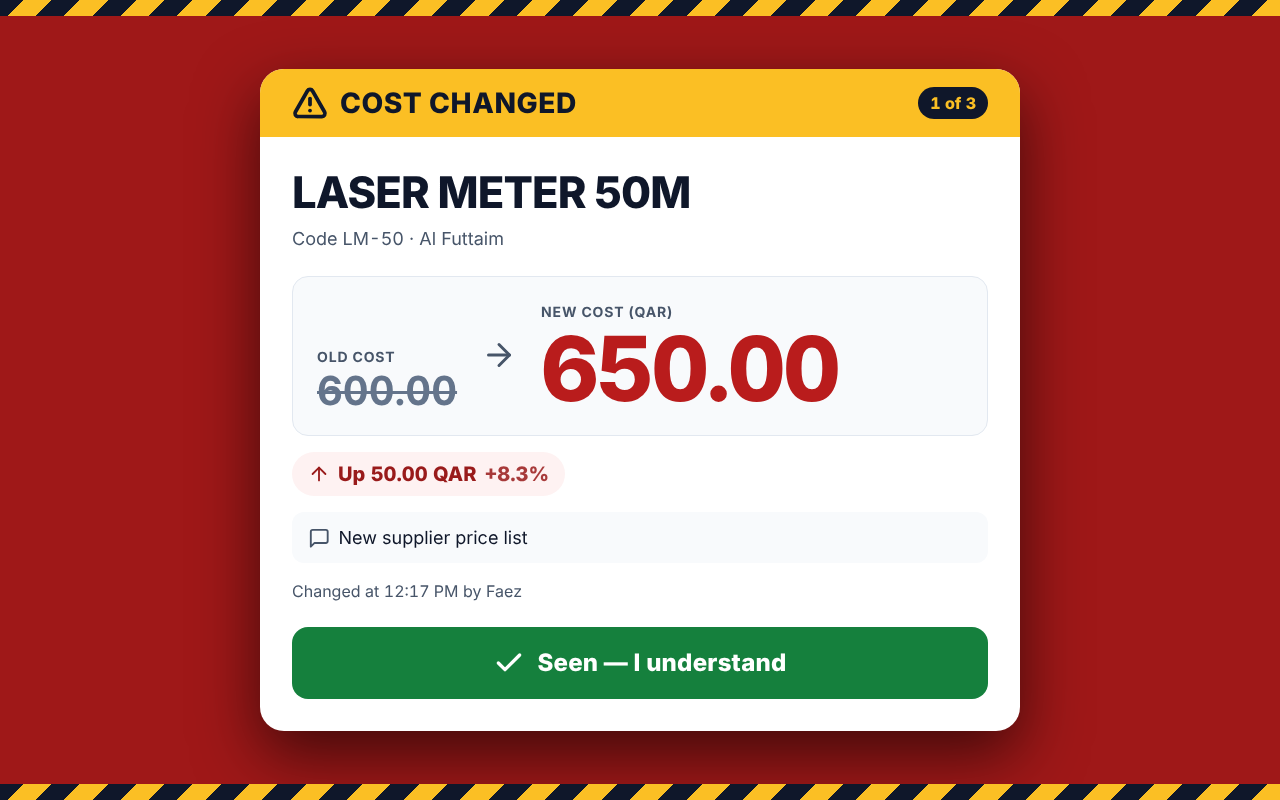
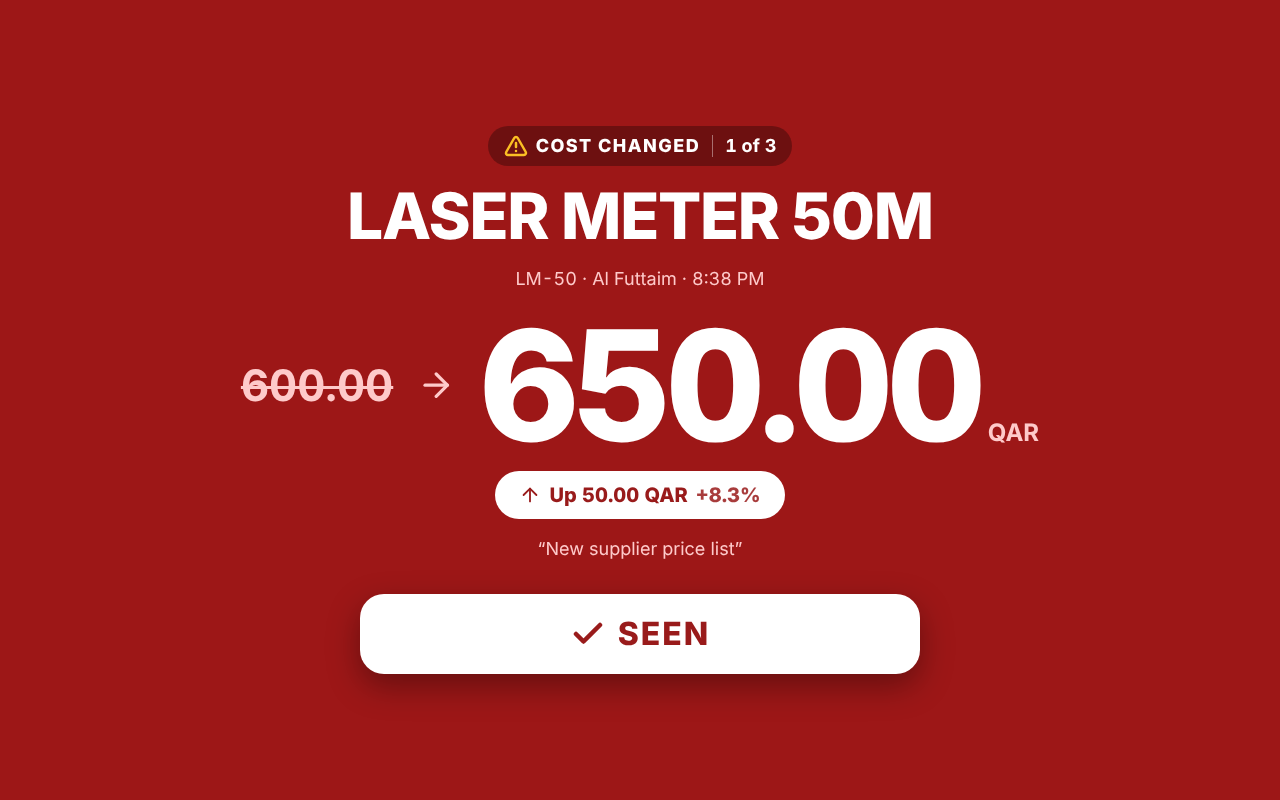
Release v1.5.0: sound on/off switch (auto back on after 30 min), simpler louder alert
Claude-Session: https://claude.ai/code/session_01Mx7C4sFz4aPG8uD74xn8Fn

diff --git a/index.html b/index.html
@@ -226,6 +226,13 @@ select.input{appearance:none;padding-right:44px;cursor:pointer;
 .tool.on{background:var(--down-tint);color:var(--ok);border-color:transparent}
 .tool.warn{background:var(--brand);color:var(--on-brand);border-color:transparent}
 .tool.off{background:var(--up-tint);color:var(--danger);border-color:transparent}
+/* on/off switch inside the sound button */
+.tool .sw{position:relative;flex:none;width:36px;height:20px;margin-left:var(--sp-1);border-radius:var(--r-full);background:var(--border-input);
+  transition:background-color var(--dur-fast)}
+.tool .sw::after{content:"";position:absolute;top:2px;left:2px;width:16px;height:16px;border-radius:50%;background:#fff;
+  transition:transform var(--dur-fast) var(--ease-out)}
+.tool[aria-checked="true"] .sw{background:var(--ok)}
+.tool[aria-checked="true"] .sw::after{transform:translateX(16px)}
 #notifHelp{margin-top:var(--sp-3)}
 .section-h{display:flex;align-items:center;gap:var(--sp-3);margin:var(--sp-6) 0 var(--sp-3);font-size:var(--fs-14);font-weight:700;
   letter-spacing:.08em;text-transform:uppercase;color:var(--text-muted)}
@@ -295,50 +302,42 @@ select.input{appearance:none;padding-right:44px;cursor:pointer;
 .start-tips li{display:flex;align-items:center;gap:var(--sp-2);justify-content:center}
 .start-tips .icon{color:var(--ok);width:18px;height:18px}
 
-/* ---------- ALERT (the one loud thing) ---------- */
-.alert{position:fixed;inset:0;z-index:var(--z-alert);display:none;padding:var(--sp-7) var(--gutter);overflow:auto;background:var(--a-scrim)}
+/* ---------- ALERT: one simple, loud screen — label, product, giant price, one button ---------- */
+.alert{--ring:#FFFFFF;--a-soft:#FECACA;position:fixed;inset:0;z-index:var(--z-alert);display:none;overflow:auto;
+  padding:var(--sp-6) var(--gutter);background:var(--a-scrim);color:#fff}
 .alert.open{display:flex}
-/* red pulse: 0.67 flashes per second, far below the WCAG 2.3.1 limit of 3 per second */
+/* red pulse: 0.67 cycles per second, far below the WCAG 2.3.1 limit of 3 flashes per second */
 .alert::before{content:"";position:fixed;inset:0;background:var(--a-pulse);opacity:.15;animation:alarm .75s ease-in-out infinite alternate;pointer-events:none}
 @keyframes alarm{to{opacity:.85}}
-.hazard{position:fixed;left:0;right:0;height:16px;z-index:2;
-  background:repeating-linear-gradient(-45deg,var(--brand) 0 20px,#0F172A 20px 40px)}
-.hazard.top{top:0} .hazard.bottom{bottom:0}
-/* scales up on big screens/TVs so it reads from across the shop */
-.alert-card{--ring:#0F172A;position:relative;z-index:1;margin:auto;width:min(clamp(760px,54vw,1080px),100%);overflow:hidden;
-  background:var(--a-surface);color:var(--a-text);border-radius:var(--r-xl);box-shadow:var(--shadow-3);
-  animation:alert-in var(--dur-base) var(--ease-out)}
+.alert :focus-visible{outline-offset:4px}
+.alert-card{position:relative;z-index:1;margin:auto;width:min(1100px,100%);display:flex;flex-direction:column;align-items:center;
+  gap:var(--sp-4);text-align:center;animation:alert-in var(--dur-base) var(--ease-out)}
 @keyframes alert-in{from{opacity:0;transform:scale(.96)}to{opacity:1;transform:none}}
-.alert-head{display:flex;align-items:center;justify-content:space-between;gap:var(--sp-3);padding:var(--sp-4) var(--sp-6);background:var(--brand);color:var(--on-brand)}
-.alert-title{display:flex;align-items:center;gap:var(--sp-3);font-size:clamp(1.5rem,2.2vw,2.5rem);font-weight:800;letter-spacing:.02em;text-transform:uppercase;line-height:1.1}
-.alert-title .icon{width:36px;height:36px;stroke-width:2.5}
-.alert-count{padding:var(--sp-1) var(--sp-3);border-radius:var(--r-full);background:var(--on-brand);color:var(--brand);font-size:var(--fs-16);font-weight:800;white-space:nowrap}
-.alert-body{padding:var(--sp-6)}
-.a-name{font-size:clamp(2rem,3.4vw,3.75rem);font-weight:800;line-height:1.1;letter-spacing:-.02em;overflow-wrap:anywhere}
-.a-meta{margin-top:var(--sp-2);font-size:var(--fs-18);color:var(--a-muted)}
-.a-prices{display:grid;grid-template-columns:auto auto 1fr;align-items:end;gap:var(--sp-5);margin:var(--sp-5) 0 var(--sp-4);
-  padding:var(--sp-5);background:var(--a-panel);border:1px solid var(--a-line);border-radius:var(--r-lg)}
-.a-label{margin-bottom:var(--sp-1);font-size:var(--fs-14);font-weight:700;letter-spacing:.06em;text-transform:uppercase;color:var(--a-muted)}
-.a-old{font-size:clamp(1.75rem,3.6vw,2.5rem);font-weight:700;line-height:1;color:var(--a-old);text-decoration:line-through;text-decoration-thickness:3px}
-.a-arrow{align-self:center;color:var(--a-muted)} .a-arrow .icon{width:36px;height:36px}
-.a-new{font-size:clamp(3.5rem,7vw,7.5rem);font-weight:800;line-height:.95;letter-spacing:-.03em;color:var(--a-text)}
-.a-new.t-up{color:var(--a-up)} .a-new.t-down{color:var(--a-down)}
-.alert .delta{min-height:44px;padding:0 var(--sp-4);font-size:var(--fs-20);font-weight:800}
+.alert-tag{display:inline-flex;align-items:center;gap:var(--sp-2);padding:var(--sp-2) var(--sp-4);border-radius:var(--r-full);
+  background:rgba(0,0,0,.3);font-size:var(--fs-18);font-weight:800;letter-spacing:.08em;text-transform:uppercase;line-height:1.2}
+.alert-tag .icon{width:24px;height:24px;stroke-width:2.5;color:var(--brand)}
+.alert-count{margin-left:var(--sp-1);padding-left:var(--sp-3);border-left:1px solid rgba(255,255,255,.4);font-weight:700;letter-spacing:0;text-transform:none}
+.a-name{font-size:clamp(2rem,5vw,4.5rem);font-weight:800;line-height:1.05;letter-spacing:-.02em;overflow-wrap:anywhere}
+.a-meta{font-size:var(--fs-18);color:var(--a-soft)}
+.a-price{display:flex;flex-wrap:wrap;align-items:center;justify-content:center;gap:var(--sp-2) var(--sp-5);margin-top:var(--sp-2)}
+.a-old{font-size:clamp(1.5rem,3.4vw,3rem);font-weight:700;color:var(--a-soft);text-decoration:line-through;text-decoration-thickness:3px}
+.a-arrow{display:inline-flex;color:var(--a-soft)} .a-arrow .icon{width:clamp(28px,3vw,48px);height:clamp(28px,3vw,48px)}
+.a-new{font-size:clamp(4rem,12vw,10rem);font-weight:800;line-height:.9;letter-spacing:-.04em}
+.a-cur{margin-left:var(--sp-2);font-size:clamp(1rem,2vw,1.5rem);font-weight:700;letter-spacing:0;color:var(--a-soft)}
+.alert .delta{min-height:48px;padding:0 var(--sp-5);font-size:var(--fs-20);font-weight:800;background:#fff}
 .alert .delta .icon{width:22px;height:22px}
-.alert .delta.d-up{background:var(--a-up-tint);color:var(--a-up-ink)}
-.alert .delta.d-down{background:var(--a-down-tint);color:var(--a-down-ink)}
-.alert .delta.d-flat{background:var(--a-panel);color:var(--a-muted)}
-.a-note{display:flex;gap:var(--sp-2);align-items:flex-start;margin-top:var(--sp-4);padding:var(--sp-3) var(--sp-4);border-radius:var(--r-md);
-  background:var(--a-panel);font-size:var(--fs-18);color:var(--a-text)}
-.a-note .icon{margin-top:3px;color:var(--a-muted)}
-.a-foot{margin-top:var(--sp-4);font-size:var(--fs-16);color:var(--a-muted)}
-.seen-btn{display:flex;align-items:center;justify-content:center;gap:var(--sp-3);width:100%;min-height:var(--target-xl);margin-top:var(--sp-5);
-  border:0;border-radius:var(--r-lg);background:var(--a-confirm);color:#fff;font-size:var(--fs-24);font-weight:800;letter-spacing:.01em;
-  transition:background-color var(--dur-fast),transform var(--dur-fast)}
-.seen-btn:hover:not(:disabled){background:var(--a-confirm-hover)}
-.seen-btn:active:not(:disabled){transform:scale(.99)}
-.seen-btn:disabled{opacity:.6;cursor:progress}
-.seen-btn .icon{width:32px;height:32px;stroke-width:2.5}
+.alert .delta.d-up{color:var(--a-up-ink)} .alert .delta.d-down{color:var(--a-down-ink)} .alert .delta.d-flat{color:var(--a-text)}
+.a-note{max-width:60ch;font-size:var(--fs-18);color:var(--a-soft)}
+.a-muted{display:inline-flex;align-items:center;gap:var(--sp-2);padding:var(--sp-2) var(--sp-4);border-radius:var(--r-full);
+  background:rgba(0,0,0,.3);font-size:var(--fs-16);font-weight:700}
+.a-muted .icon{color:var(--brand)}
+.seen-btn{display:flex;align-items:center;justify-content:center;gap:var(--sp-3);width:min(560px,100%);min-height:80px;margin-top:var(--sp-4);
+  border:0;border-radius:var(--r-xl);background:#fff;color:var(--a-up-ink);font-size:var(--fs-32);font-weight:800;letter-spacing:.06em;
+  text-transform:uppercase;box-shadow:0 12px 32px rgba(0,0,0,.35);transition:background-color var(--dur-fast),transform var(--dur-fast)}
+.seen-btn:hover:not(:disabled){background:#FEF2F2}
+.seen-btn:active:not(:disabled){transform:scale(.98)}
+.seen-btn:disabled{opacity:.7;cursor:progress}
+.seen-btn .icon{width:36px;height:36px;stroke-width:3}
 
 /* ---------- toast ---------- */
 .toast{position:fixed;left:50%;bottom:max(var(--sp-4),env(safe-area-inset-bottom));transform:translateX(-50%);z-index:var(--z-toast);
@@ -375,13 +374,11 @@ select.input{appearance:none;padding-right:44px;cursor:pointer;
   .table td[data-label]::before{content:attr(data-label);display:block;font-size:var(--fs-12);font-weight:700;letter-spacing:.06em;text-transform:uppercase;color:var(--text-muted)}
   .td-act{position:absolute;top:var(--sp-2);right:0;width:auto;padding:0!important}
   .user-form{grid-template-columns:1fr}
-  .alert{padding:var(--sp-6) var(--sp-3)}
-  .alert-head{padding:var(--sp-3) var(--sp-4)}
-  .alert-title{font-size:var(--fs-20);letter-spacing:0} .alert-title .icon{width:26px;height:26px}
-  .alert-body{padding:var(--sp-4)}
-  .a-prices{grid-template-columns:1fr;gap:var(--sp-3);padding:var(--sp-4)}
-  .a-arrow{display:none}
-  .seen-btn{font-size:var(--fs-20)}
+  .alert{padding:var(--sp-5) var(--sp-4)}
+  .alert-card{gap:var(--sp-3)}
+  .alert-tag{font-size:var(--fs-14)} .alert-tag .icon{width:20px;height:20px}
+  .a-meta,.a-note{font-size:var(--fs-16)}
+  .seen-btn{min-height:72px;font-size:var(--fs-24)}
   .start-title{font-size:var(--fs-32)}
 }
 @media (max-width:479px){
@@ -536,7 +533,7 @@ select.input{appearance:none;padding-right:44px;cursor:pointer;
       <div class="toolbar-right">
         <div class="stats" id="stats"></div>
         <div class="tools hidden" id="tools">
-          <button class="tool" id="soundBtn" type="button" title="Play a test alarm"></button>
+          <button class="tool" id="soundBtn" type="button" role="switch" aria-checked="false"></button>
           <button class="tool hidden" id="notifBtn" type="button"></button>
         </div>
       </div>
@@ -578,9 +575,7 @@ select.input{appearance:none;padding-right:44px;cursor:pointer;
 
 <!-- alert -->
 <div id="pop" class="alert" role="alertdialog" aria-modal="true" aria-labelledby="alertTitle" aria-describedby="alertDesc">
-  <div class="hazard top" aria-hidden="true"></div>
   <div class="alert-card" id="alertCard"></div>
-  <div class="hazard bottom" aria-hidden="true"></div>
 </div>
 
 <div id="upd" class="toast hidden" role="status">
@@ -590,11 +585,12 @@ select.input{appearance:none;padding-right:44px;cursor:pointer;
 
 <script>
 /* ===================== SETTINGS ===================== */
-const APP_VERSION = "1.4.0";               // bump this AND version.json on every release
+const APP_VERSION = "1.5.0";               // bump this AND version.json on every release
 const SUPABASE_URL = "https://gsjdwsbcinfuluoffcah.supabase.co";
 const SUPABASE_KEY = "sb_publishable_ggkvoNUwNfRT6ET5T5fOkw_zlarg8-p";   // publishable key (safe to publish)
 const SHOP = "Muhammed Bu Matar Trading";
 const REPEAT_BEEP_SECONDS = 10;            // sound the alarm again while a change is not confirmed
+const MUTE_MINUTES = 30;                   // a muted screen switches its alarm sound back on by itself after this
 /* ==================================================== */
 
 const $=id=>document.getElementById(id);
@@ -847,6 +843,7 @@ $("ulist").addEventListener("click",async e=>{
 /* ---------- board + alert ---------- */
 function beep(){
   // Loud siren: 3 x "wee-woo" sweeps (~1.8 s), two harsh detuned tones pushed through a compressor
+  if(isMuted()){lastBeep=Date.now();return;}   // staff switched the sound off (comes back on by itself)
   if(ctx){
     try{
       if(ctx.state==="suspended")ctx.resume();
@@ -941,30 +938,29 @@ function popup(){
   const r=unseen[0],k=dir(r);
   if(shown!==r.id){
     shown=r.id;
-    const meta=[r.code&&`Code <span class="num">${esc(r.code)}</span>`,r.supplier&&esc(r.supplier)].filter(Boolean).join(" · ");
+    const meta=[r.code&&`<span class="num">${esc(r.code)}</span>`,r.supplier&&esc(r.supplier),`<span class="num">${hm(r.changed_at)}</span>`].filter(Boolean).join(" · ");
     $("alertCard").innerHTML=`
-      <div class="alert-head"><h2 class="alert-title" id="alertTitle">${ic("alert")}Cost changed</h2><span class="alert-count num hidden" id="alertCount"></span></div>
-      <div class="alert-body">
-        <div id="alertDesc">
-          <p class="a-name">${esc(r.name)}</p>
-          ${meta?`<p class="a-meta">${meta}</p>`:""}
-          <div class="a-prices">
-            <div><div class="a-label">Old cost</div><div class="a-old num">${r.old_cost!=null?f2(r.old_cost):"—"}</div></div>
-            <div class="a-arrow" aria-hidden="true">${ic("arrow-right")}</div>
-            <div><div class="a-label">New cost (QAR)</div><div class="a-new num ${tcls(k)}">${f2(r.new_cost)}</div></div>
-          </div>
-          <div>${deltaChip(r)}</div>
-          ${r.note?`<p class="a-note">${ic("note")}<span>${esc(r.note)}</span></p>`:""}
-          <p class="a-foot">Changed at <span class="num">${hm(r.changed_at)}</span>${r.changed_by?` by ${esc(r.changed_by)}`:""}</p>
+      <h2 class="alert-tag" id="alertTitle">${ic("alert")}Cost changed<span class="alert-count num hidden" id="alertCount"></span></h2>
+      <div id="alertDesc" style="display:contents">
+        <p class="a-name">${esc(r.name)}</p>
+        <p class="a-meta">${meta}</p>
+        <div class="a-price">
+          ${r.old_cost!=null?`<span class="a-old num"><span class="sr-only">Was </span>${f2(r.old_cost)}</span><span class="a-arrow" aria-hidden="true">${ic("arrow-right")}</span>`:""}
+          <span class="a-new num"><span class="sr-only">Now </span>${f2(r.new_cost)}<span class="a-cur">QAR</span></span>
         </div>
-        <button class="seen-btn" id="seenBtn" type="button">${ic("check")}Seen — I understand</button>
-      </div>`;
+        ${deltaChip(r)}
+        ${r.note?`<p class="a-note">“${esc(r.note)}”</p>`:""}
+      </div>
+      <button class="seen-btn" id="seenBtn" type="button">${ic("check")}Seen</button>
+      <p class="a-muted hidden" id="alertMuted"></p>`;
     $("pop").classList.add("open");document.documentElement.classList.add("alert-open");
     $("board").inert=true;
     beep();
     setTimeout(()=>{const b=$("seenBtn");if(b)b.focus({preventScroll:true});},30);
   }
   const c=$("alertCount");c.textContent=`1 of ${unseen.length}`;c.classList.toggle("hidden",unseen.length<2);
+  const am=$("alertMuted");am.classList.toggle("hidden",!isMuted());
+  if(isMuted())am.innerHTML=`${ic("volume-x")}Alarm sound is off until <span class="num">${muteBackAt()}</span>`;
   if(Date.now()-lastBeep>REPEAT_BEEP_SECONDS*1000)beep();
 }
 $("pop").addEventListener("click",async e=>{
@@ -981,6 +977,7 @@ document.addEventListener("keydown",e=>{
   if(e.key==="Tab"&&$("pop").classList.contains("open")){e.preventDefault();const b=$("seenBtn");if(b)b.focus();}
 });
 async function poll(){
+  checkMute();
   try{
     const j=await rpc("ca_feed",{...T(),p_days:2});
     rows=j.rows;today=j.today;setNet(true);render();
@@ -1007,7 +1004,25 @@ function tryAutoStart(){
 }
 // any tap on the page switches sound back on if Chrome paused it
 document.addEventListener("pointerdown",()=>{if(started&&ctx&&ctx.state!=="running")ensureAudio();});
-$("soundBtn").onclick=()=>{ensureAudio();setTimeout(beep,60);};
+
+/* ---------- sound on/off switch (mute switches itself back on after MUTE_MINUTES) ---------- */
+let muteUntil=0;
+try{muteUntil=Number(localStorage.getItem("ca_mute_until"))||0;}catch(e){}
+const isMuted=()=>muteUntil>Date.now();
+const muteBackAt=()=>new Date(muteUntil).toLocaleTimeString("en-US",{hour:"numeric",minute:"2-digit"});
+function setMute(on){
+  muteUntil=on?Date.now()+MUTE_MINUTES*60000:0;
+  try{if(on)localStorage.setItem("ca_mute_until",String(muteUntil));else localStorage.removeItem("ca_mute_until");}catch(e){}
+  updateTools();
+  if(!$("pop").classList.contains("open"))return;
+  const am=$("alertMuted");if(am){am.classList.toggle("hidden",!on);if(on)am.innerHTML=`${ic("volume-x")}Alarm sound is off until <span class="num">${muteBackAt()}</span>`;}
+}
+function checkMute(){if(muteUntil&&!isMuted())setMute(false);}   // time is up: sound back on
+$("soundBtn").onclick=()=>{
+  const unlocked=!!ctx&&ctx.state==="running";
+  if(!unlocked||isMuted()){ensureAudio();setMute(false);setTimeout(beep,60);}   // ON: plays a short test alarm
+  else setMute(true);                                                           // OFF for MUTE_MINUTES
+};
 
 /* ---------- Windows / desktop notifications ---------- */
 const canNotify=()=>"Notification" in window&&"serviceWorker" in navigator&&location.protocol.startsWith("http");
@@ -1040,7 +1055,7 @@ function notifyChange(r){
   const extra=[r.code&&`Code ${r.code}`,r.supplier,r.note].filter(Boolean).join(" · ");
   if(extra)body+="\n"+extra;
   showNotif(`Cost changed: ${r.name}`,{
-    body,tag:"ca-"+r.id,renotify:true,requireInteraction:true,icon:ICON_ALERT,
+    body,tag:"ca-"+r.id,renotify:true,requireInteraction:true,icon:ICON_ALERT,silent:isMuted(),
     data:{id:r.id,token:S.token,api:SUPABASE_URL,key:SUPABASE_KEY,url:location.href.split("#")[0]},
     actions:[{action:"seen",title:"Seen"},{action:"open",title:"Open board"}]
   }).then(ok=>{if(!ok)notified.delete(r.id);});
@@ -1074,11 +1089,17 @@ function updateTools(){
   const staff=!!S&&S.role!=="admin";
   $("tools").classList.toggle("hidden",!staff);
   if(!staff)return;
-  const on=!!ctx&&ctx.state==="running";
+  const unlocked=!!ctx&&ctx.state==="running",muted=isMuted();
   const sb=$("soundBtn");
-  sb.className="tool "+(on?"on":"warn");
-  sb.innerHTML=on?`${ic("volume")}Sound on`:`${ic("volume-x")}Sound off — tap to turn on`;
-  sb.setAttribute("aria-label",on?"Sound is on. Play a test alarm":"Sound is off. Tap to turn sound on");
+  sb.className="tool "+(!unlocked?"warn":muted?"off":"on");
+  sb.setAttribute("aria-checked",String(unlocked&&!muted));
+  sb.innerHTML=!unlocked?`${ic("volume-x")}Sound off — tap to turn on`
+    :muted?`${ic("volume-x")}<span>Sound off · back on <span class="num">${muteBackAt()}</span></span><span class="sw" aria-hidden="true"></span>`
+    :`${ic("volume")}Sound on<span class="sw" aria-hidden="true"></span>`;
+  const lbl=!unlocked?"Alarm sound is off. Tap to turn it on"
+    :muted?`Alarm sound is off until ${muteBackAt()}. Tap to turn it back on`
+    :`Alarm sound is on. Tap to turn it off for ${MUTE_MINUTES} minutes`;
+  sb.setAttribute("aria-label",lbl);sb.title=lbl;
   const nb=$("notifBtn");
   if(!canNotify()){nb.classList.add("hidden");$("notifHelp").classList.add("hidden");return;}
   const p=Notification.permission;

diff --git a/DESIGN.md b/DESIGN.md
@@ -1,4 +1,4 @@
-# Cost Alert — Design System (v1.3.0)
+# Cost Alert — Design System (v1.5.0)
 
 A dark **signal board** for a hardware shop counter. The rule behind every decision:
 
@@ -13,12 +13,13 @@ A dark **signal board** for a hardware shop counter. The rule behind every decis
 |---|---|---|
 | Sound | 3 × siren sweep (800→1600 Hz), repeats every 10 s until **Seen** | Works when staff aren't looking at the screen |
 | Colour | Full-screen red scrim, slowly pulsing | Red = stop / warning in every culture |
-| Pattern | Yellow/black hazard stripes top and bottom | Hardware-shop "caution" sign, readable at a glance and not colour-only |
-| Contrast | White card on red (16:1) with 88–120 px new price | Read from across the counter |
+| Simplicity (v1.5) | Only four things on screen: what changed, the product, a giant new price (up to 160 px) with the up/down chip, and one **SEEN** button | One glance from across the counter is enough. Nothing competes with the price |
+| Contrast | White text straight on the red, at least 7.4:1 even at the brightest point of the pulse | Readable at any moment of the pulse |
 | Taskbar | Tab title flashes "⚠ COST CHANGED ⚠", favicon turns red | Visible even when the sales software is in front |
 | Windows notification (v1.4) | Pops over every app, even with Chrome minimised, and stays until answered. **Seen** button confirms and stops the siren. | Staff don't need to switch windows to see or confirm a change |
 | Focus | Keyboard focus lands on **Seen**, Enter confirms | Fast for a cashier with hands on the keyboard |
 | Queue | "1 of 3" counter | Staff know how many are left |
+| Sound switch (v1.5) | Staff can switch the siren off. It switches back on by itself after 30 min, and the alert says "Alarm sound is off until 9:07 PM" | Quiet when needed, but a forgotten mute can't hide a change |
 
 **Flash safety:** the pulse runs at 0.67 cycles/s, well below the WCAG 2.3.1 limit of 3 flashes per second.
 With *reduced motion* switched on in the OS, the pulse stops and a static red is shown.
@@ -35,8 +36,9 @@ With *reduced motion* switched on in the OS, the pulse stops and a static red is
 | `--brand` / `--on-brand` | `#FBBF24` / `#0F172A` | Primary actions, brand mark, "New" / "Current" tags |
 | `--up` | `#F87171` | Cost **up** (bad for margin) |
 | `--down` | `#4ADE80` | Cost **down** |
-| `--a-up` / `--a-down` | `#B91C1C` / `#15803D` | Up / down on the white alert card |
-| `--a-confirm` | `#15803D` | **Seen** button |
+| `--a-scrim` / `--a-pulse` | `#450A0A` / `#B91C1C` | Alert background and its pulse |
+| `--a-soft` | `#FECACA` | Secondary text on the alert (old cost, code, note) |
+| `--a-up-ink` / `--a-down-ink` | `#991B1B` / `#166534` | **SEEN** button text and up/down chip text on white |
 
 Direction is **never shown by colour alone**: there's always an arrow icon, the word "Up"/"Down" and a +/− sign.
 
@@ -48,9 +50,10 @@ Direction is **never shown by colour alone**: there's always an arrow icon, the 
 | Ink on amber (buttons, alert header) | 10.69 | 4.5 |
 | Up red on card | 6.45 | 4.5 |
 | Down green on card | 10.25 | 4.5 |
-| Old cost (struck) on white | 4.76 | 4.5 |
-| Up price on white | 6.47 | 4.5 |
-| White on **Seen** green | 5.02 | 4.5 |
+| Alert: white text on red (darkest → brightest pulse) | 7.45 or more | 4.5 |
+| Alert: soft text `#FECACA` on red | 5.15 or more | 4.5 |
+| **SEEN** button text / up chip on white | 8.31 | 4.5 |
+| Down chip on white | 7.13 | 4.5 |
 | Input border on input surface | 3.07 | 3.0 |
 | Amber focus ring on background | 12.08 | 3.0 |
 
@@ -59,9 +62,9 @@ Direction is **never shown by colour alone**: there's always an arrow icon, the 
 
 | Role | Size | Weight |
 |---|---|---|
-| Alert new price | clamp(56 px, 7vw, 120 px) | 800 |
+| Alert new price | clamp(64 px, 12vw, 160 px) | 800 |
 | Board new price | clamp(36 px, 3.6vw, 56 px) | 800 |
-| Alert product name | clamp(32 px, 3.4vw, 60 px) | 800 |
+| Alert product name | clamp(32 px, 5vw, 72 px) | 800 |
 | Board product name | clamp(24 px, 2.4vw, 36 px) | 800 |
 | Section / card title | 20 px | 700 |
 | Body / inputs | 16 px (never smaller on phones → no iOS zoom) | 400–600 |
@@ -76,9 +79,10 @@ Sizes are in `rem`, so browser zoom and system text size still work.
 - **Z-index:** header 10 · alert 100 · start screen 200 · toast 300.
 
 ## 5. Touch & interaction
-- Every control is at least **48 × 48 px** (Material). The **Seen** and **Start board** buttons are 72 px tall.
+- Every control is at least **48 × 48 px** (Material). **SEEN** is 80 px tall (72 px on phones), **Start board** 72 px.
 - Controls are at least 8 px apart.
-- Visible 3 px amber focus ring (dark ink on the white alert card).
+- Visible 3 px focus ring: amber on the board, white on the red alert.
+- The sound button is a real switch (`role="switch"`, `aria-checked`), with an on/off track you can see.
 - Buttons show a spinner and are disabled while saving.
 - Press feedback is `scale(.98)`, so the layout never shifts.
 - Deleting asks for confirmation. Delete is a red icon button, separate from the primary action.
@@ -99,7 +103,7 @@ Decorative icons are `aria-hidden`. Icon-only buttons have an `aria-label`.
 ## 8. Responsive
 Breakpoints: **375 · 768 · 1024 · 1440**, with the alert scaled for **1920** TVs.
 - **< 1024 px:** admin becomes one column.
-- **< 768 px:** buttons become icon-only (still labelled for screen readers), tables become stacked cards, board rows drop the direction badge (the colour bar and arrow chip carry direction), and the alert stacks old/new price.
+- **< 768 px:** buttons become icon-only (still labelled for screen readers), tables become stacked cards, board rows drop the direction badge (the colour bar and arrow chip carry direction), and the alert wraps the old price above the new one.
 - **< 480 px:** the in-app clock is hidden (phones show the time already).
 - No horizontal scrolling at 375 px (checked automatically).
 - Landscape phones can scroll to **Seen**.
@@ -110,7 +114,7 @@ Breakpoints: **375 · 768 · 1024 · 1440**, with the alert scaled for **1920** 
 - Status messages use `aria-live`. Login errors use `role="alert"`.
 - Every input has a visible label, required fields are marked `*`, and the password field has a show/hide toggle.
 
-## 10. Pre-delivery checklist (v1.3.0)
+## 10. Pre-delivery checklist (v1.5.0)
 - [x] Contrast measured, all text ≥ 4.5:1
 - [x] Touch targets ≥ 48 px, automated check passed on every screen
 - [x] No horizontal scroll at 375 px

diff --git a/CHANGELOG.md b/CHANGELOG.md
@@ -2,6 +2,19 @@
 
 All notable changes to Cost Alert. Versions follow `MAJOR.MINOR.PATCH`.
 
+## v1.5.0 — 2026-11-10
+### Added
+- **Sound on/off switch** on the staff board. Tap to turn the siren off, tap again to turn it on (plays a short test alarm).
+  - A muted screen **turns its sound back on by itself after 30 minutes** (`MUTE_MINUTES` in `index.html`), so a forgotten mute can't hide a change.
+  - The button shows when sound comes back ("Sound off · back on 9:07 PM"), and the alert says "Alarm sound is off until …".
+  - While muted, Windows notifications are silent too. The mute stays through a reload.
+  - Keyboard and screen-reader friendly (`role="switch"`).
+
+### Changed
+- **Simpler, louder alert.** One red pulsing screen with just four things: "COST CHANGED" tag, product name, giant new price (old price struck through beside it) with the up/down chip, and one big **SEEN** button.
+  - Removed the hazard stripes, the white card, the header bar, the price box and its labels, and the "changed by" line. The time moved next to the code.
+  - Every colour pair still passes WCAG AA across the whole pulse.
+
 ## v1.4.0 — 2026-11-10
 ### Added
 - **Windows notifications** for every cost change. They pop up over every app (the sales software too), even with Chrome minimised, and stay on screen until someone answers.

diff --git a/README.md b/README.md
@@ -52,7 +52,9 @@ The board should show green **Sound on** and **Notifications on**. Tap them to t
 
 Notifications only work while the board is open (minimised is fine). If Chrome is fully closed, nothing can alert.
 
-**No sound?** Check the **Sound** button on the board (tap it if it's amber). Make sure the speaker is on and not muted, and that the Chrome tab isn't muted (right-click the tab).
+**Sound on/off:** staff can turn the siren off with the **Sound** switch on the board. It turns back on by itself after 30 minutes.
+
+**No sound?** Check the **Sound** button on the board. Tap it if it's amber or red. Make sure the speaker is on and not muted, and that the Chrome tab isn't muted (right-click the tab).
 
 ## Releasing a new version
 1. Make the change in `index.html`.
